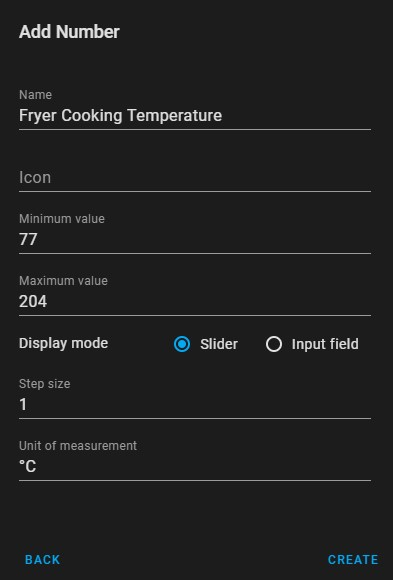
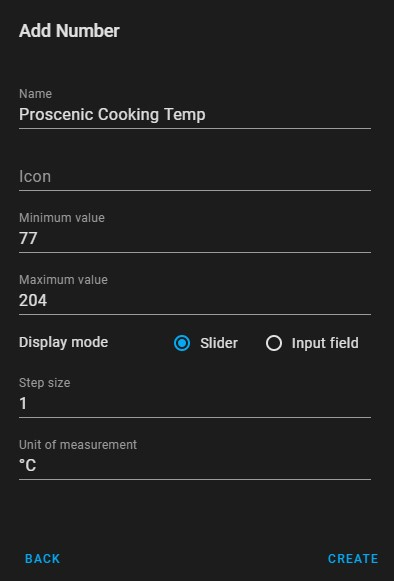
add article

diff --git a/_posts/2021-05-07-proscenic-in-home-assistant.md b/_posts/2021-05-07-proscenic-in-home-assistant.md
@@ -1,0 +1,180 @@
+---
+layout: post
+title: "Proscenic T21 Air Fryer in Home Assistant Using Tasmota"
+author: blak
+categories: [ tasmota, home assistant, how to ]
+tags: [ ]
+image: assets/images/header_climate.jpg
+toc: true
+---
+
+Guide to seting up [Proscenic T21](https://templates.blakadder.com/proscenic_T21.html) air fryer running Tasmota in Home Assistant with all automations and UI configuration
+
+***All information applies only to Home Assistant 2021.5.0+ and Tasmota 9.4+***
+
+This guide assumes you've correctly set up Tasmota on the [Proscenic T21](https://templates.blakadder.com/proscenic_T21.html) and the Tasmota integration in Home Assistant.
+
+Tasmota was configured like this:
+
+```console
+Backlog DeviceName Proscenic; FriendlyName1 Activate Fryer; FriendlyName2 Start/Pause Cooking; FriendlyName3 Keep Warm; FriendlyName4 Delayed Cook; SetOption8 1; Rule0 1
+```
+
+Even though the temperature is displayed in °F, Home Assistant will convert the discovered temperature sensor to your unit of measurement.
+
+## Add Device to Home Assistant
+Make sure the Tasmota device is discovered in Home Assistant under Tasmota integration. If everything is configured correctly, Home Assistant's **Configuration - Devices** list should have a device "Proscenic" and will show the following entities.
+
+![Device Card](/assets/images/proscenic/device_card_before.jpg)
+
+If you want to customize any of the entities click their name!
+
+## Tasmota Rule
+Create a rule set that will dispatch received data from the Tuya MCU to separate topics. Some rules use variables to receive data from Home Assistant and forward them to the Tuya MCU.
+
+```console
+rule3 
+on tuyareceived#dptype4id3 do publish %topic%/cookbook %value% endon 
+on tuyareceived#dptype4id5 do publish %topic%/mode %value% endon 
+on tuyareceived#dptype2id103 do publish %topic%/cookingtemp %value% endon 
+on var3#state do tuyasend2 103,%value% endon 
+on tuyareceived#dptype2id7 do publish %topic%/cooktime %value% endon 
+on var7#state do tuyasend2 7,%value% endon 
+on tuyareceived#dptype2id105 do publish %topic%/warmtime %value% endon 
+on var5#state do tuyasend2 105,%value% endon 
+on tuyareceived#dptype2id6 do publish %topic%/delayedtime %value% endon 
+on var6#state do tuyasend2 6,%value% endon 
+```
+
+## Autodiscover Entities Rule
+
+Next, import a blueprint for an automation that will generate and publish all necessary MQTT discovery messages so all the sensors will be in the device card for the air fryer.
+
+<a href="https://my.home-assistant.io/redirect/blueprint_import/?blueprint_url=https://github.com/tasmota/blueprints/blob/main/discovery-proscenic-t21.yaml" title="Import Proscenic T21 Discovery "><img loading="lazy" src="/assets/blueprint_import.svg"></a>
+
+Automation will run on every Home Assistant restart or when Proscenic T21 reports its online to the MQTT broker.
+
+Resulting Device Card will look like this:
+
+![Device Card After](/assets/images/proscenic/device_card_after.jpg)
+
+Once all the sensors are discovered, set up [Helpers](https://my.home-assistant.io/redirect/helpers)
+
+## Dropdown Helper
+
+[Create](https://my.home-assistant.io/redirect/helpers) a dropdown aka input select helper that will let you select the cooking mode from the UI. 
+
+The helper should be like this:
+
+![Dropdown Helper](/assets/images/proscenic/input_select.jpg)
+
+Values in the helper are used in the related automation, so don't change anything unless you're changing the blueprint too.
+
+After creating the helper, import blueprint and create the automation.
+
+<a href="https://my.home-assistant.io/redirect/blueprint_import/?blueprint_url=https://github.com/tasmota/blueprints/blob/main/proscenic_t21_cookbook.yaml" title="Import Proscenic T21 Cookbook"><img loading="lazy" src="/assets/blueprint_import.svg"></a>
+
+## Number Helper
+
+[Create](https://my.home-assistant.io/redirect/helpers) a number helper that will be used to set the cooking temperature. 
+
+### Temperature in Celsius
+If you use Celsius in Home Assistant set the helper like this: 
+
+![Number Helper for °C](/assets/images/proscenic/input_number.jpg)
+
+Automation will do the necessary conversion from Celsius to Fahrenheit, which is the only unit Proscenic accepts.
+
+<a href="https://my.home-assistant.io/redirect/blueprint_import/?blueprint_url=https://github.com/tasmota/blueprints/blob/main/proscenic_t21_cooking_temperature_celsius.yaml" title="Import Proscenic T21 Cookbook in °C"><img loading="lazy" src="/assets/blueprint_import.svg"></a>
+
+### Temperature in Fahrenheit
+
+If you use Fahrenheit in Home Assistant set the helper like this: 
+
+![Number Helper for °F](/assets/images/proscenic/input_number_fahrenheit.jpg)
+
+<a href="https://my.home-assistant.io/redirect/blueprint_import/?blueprint_url=https://github.com/tasmota/blueprints/blob/main/proscenic_t21_cooking_temperature.yaml" title="Import Proscenic T21 Cookbook in °F"><img loading="lazy" src="/assets/blueprint_import.svg"></a>
+
+### Lovelace Card
+
+To bring it all together there's a Lovelace UI card utilising conditional cards because not all fryer options are available at all time.
+
+![Lovelace ](/assets/images/proscenic/lovelace0.jpg)
+![Lovelace 1](/assets/images/proscenic/lovelace1.jpg)
+![Lovelace 2](/assets/images/proscenic/lovelace2.jpg)
+
+If you followed the guide using the same names you can paste the entire configuration in the UI.
+
+```yaml
+type: vertical-stack
+cards:
+  - type: button
+    tap_action:
+      action: toggle
+    entity: switch.activate_fryer
+    icon_height: 80px
+    icon: 'mdi:power'
+    show_name: false
+  - type: conditional
+    conditions:
+      - entity: switch.activate_fryer
+        state: 'on'
+      - entity: switch.start_pause_cooking
+        state: 'off'
+    card:
+      type: entities
+      entities:
+        - entity: input_select.proscenic_cookbook
+  - type: conditional
+    conditions:
+      - entity: sensor.cookbook
+        state: Custom
+      - entity: switch.activate_fryer
+        state: 'on'
+      - entity: switch.start_pause_cooking
+        state: 'off'
+    card:
+      type: entities
+      entities:
+        - entity: input_number.proscenic_cooking_temp
+        - entity: number.cooking_time_set
+        - entity: switch.keep_warm
+        - entity: number.keep_warm_time_set
+        - entity: switch.delayed_cook
+        - entity: number.delayed_cook_time_set
+      state_color: true
+  - type: conditional
+    conditions:
+      - entity: switch.activate_fryer
+        state: 'on'
+    card:
+      type: button
+      tap_action:
+        action: toggle
+      entity: switch.start_pause_cooking
+      icon: 'mdi:play'
+      show_name: false
+      icon_height: 80px
+      show_state: false
+      name: Start Cooking
+  - type: conditional
+    conditions:
+      - entity: switch.start_pause_cooking
+        state: 'on'
+      - entity: switch.activate_fryer
+        state: 'on'
+    card:
+      type: horizontal-stack
+      cards:
+        - type: entity
+          entity: sensor.cooking_mode
+          name: Status
+        - type: entity
+          entity: sensor.proscenic_tuyasns_timer1
+          name: Time Remaining
+          icon: 'mdi:timer-sand'
+          unit: minutes
+        - type: entity
+          entity: sensor.proscenic_tuyasns_temperature
+          name: Cooking Temperature
+```
